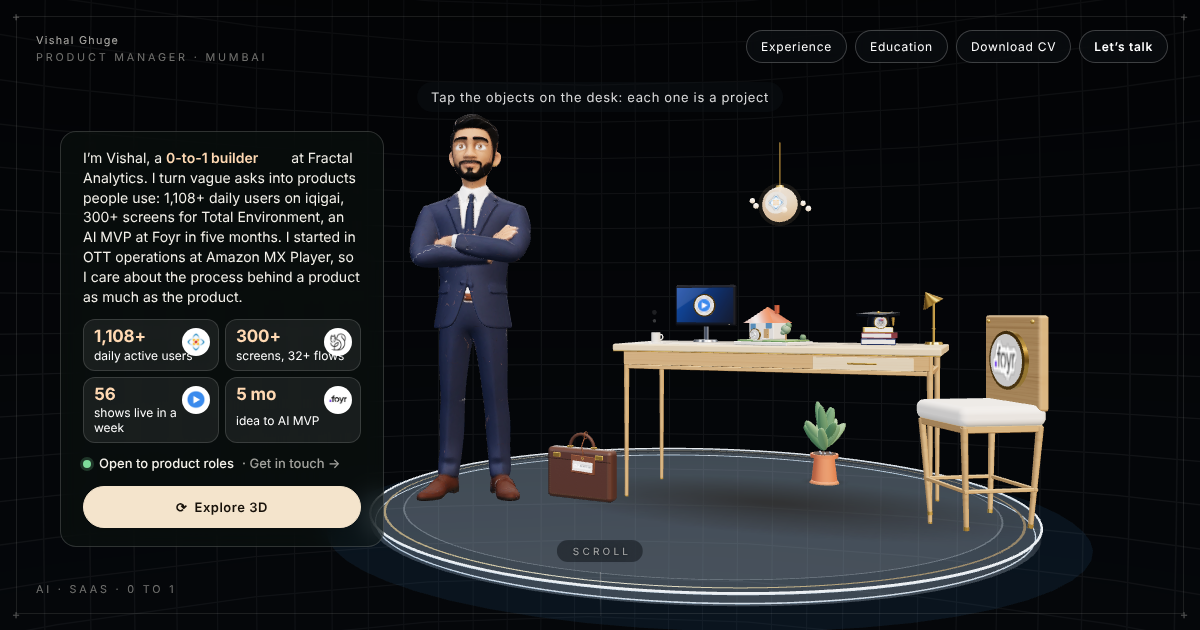
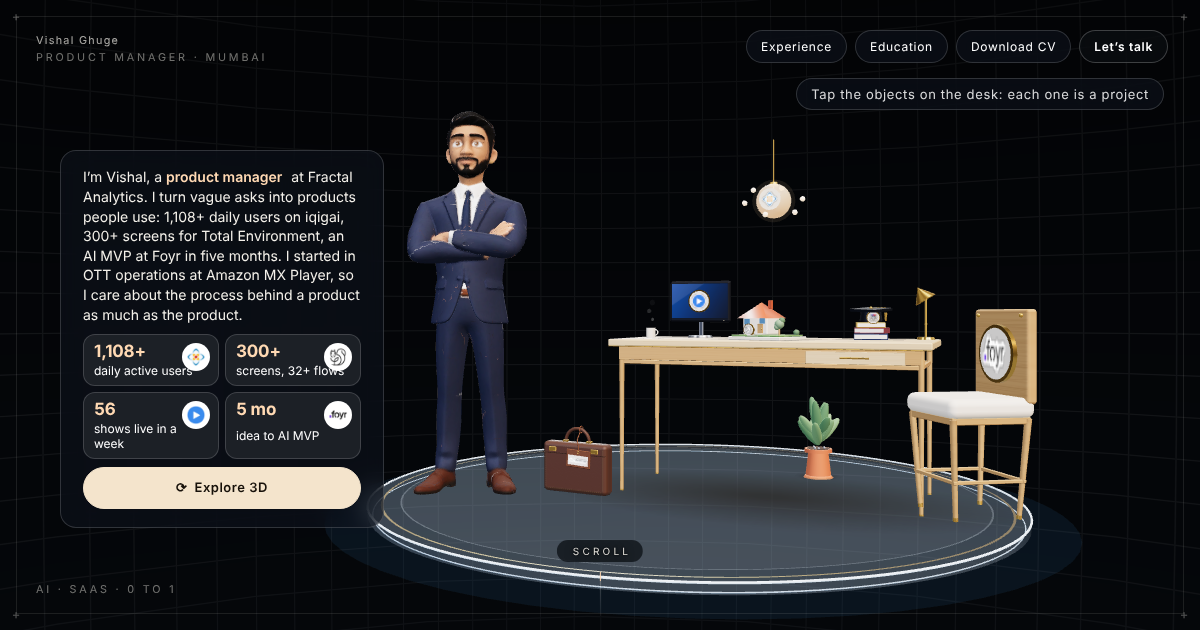
Remove the 'Open to product roles' line; refresh share image
Claude-Session: https://claude.ai/code/session_01TAZGkfqR15TY69XAyt2RQE

diff --git a/web/index.html b/web/index.html
@@ -14,7 +14,7 @@
     <meta property="og:title" content="Vishal Ghuge · Product Manager" />
     <meta
       property="og:description"
-      content="AI and SaaS products from 0 to 1. Open to product roles. A portfolio built like a product: tour the 3D studio to open the case studies."
+      content="AI and SaaS products from 0 to 1. A portfolio built like a product: tour the 3D studio to open the case studies."
     />
     <meta property="og:url" content="https://vishalghuge-git.github.io/portfolio/" />
     <meta property="og:image" content="https://vishalghuge-git.github.io/portfolio/og.png" />
@@ -40,7 +40,7 @@
     <link rel="preload" as="image" href="%BASE_URL%stickers/bocconi.png" crossorigin="anonymous" />
   </head>
   <body>
-    <noscript><div style="font:16px/1.5 system-ui;color:#f4f1ea;background:#0a0e16;padding:32px;min-height:100vh"><h1>Vishal Ghuge · Product Manager</h1><p>AI and SaaS products from 0 to 1. Product Manager at Fractal Analytics, Mumbai. Open to product roles.</p><p><a style="color:#ffd9b3" href="./Vishal_Ghuge_CV.pdf">Download CV</a> · <a style="color:#ffd9b3" href="mailto:vishalghuge26@gmail.com">vishalghuge26@gmail.com</a></p><p>This portfolio is an interactive 3D site and needs JavaScript.</p></div></noscript>
+    <noscript><div style="font:16px/1.5 system-ui;color:#f4f1ea;background:#0a0e16;padding:32px;min-height:100vh"><h1>Vishal Ghuge · Product Manager</h1><p>AI and SaaS products from 0 to 1. Product Manager at Fractal Analytics, Mumbai.</p><p><a style="color:#ffd9b3" href="./Vishal_Ghuge_CV.pdf">Download CV</a> · <a style="color:#ffd9b3" href="mailto:vishalghuge26@gmail.com">vishalghuge26@gmail.com</a></p><p>This portfolio is an interactive 3D site and needs JavaScript.</p></div></noscript>
     <div id="root"><div id="boot" aria-hidden="true"><svg viewBox="0 0 80 80"><circle class="t" cx="40" cy="40" r="34"/><circle class="a" cx="40" cy="40" r="34"/></svg></div></div>
     <script type="module" src="/src/main.tsx"></script>
   </body>

diff --git a/web/src/App.tsx b/web/src/App.tsx
@@ -212,9 +212,6 @@ function Hero({ cueOpacity }: { cueOpacity: MotionValue<number> }) {
             </span>
           </motion.p>
           <Proof />
-          <button type="button" className="about-open" onClick={() => { track('open_to_roles'); jumpTo('contact') }}>
-            <i aria-hidden="true" /> Open to product roles <span aria-hidden="true">· Get in touch →</span>
-          </button>
           <div className="about-actions">
             <button
               className="about-btn about-btn-primary"
